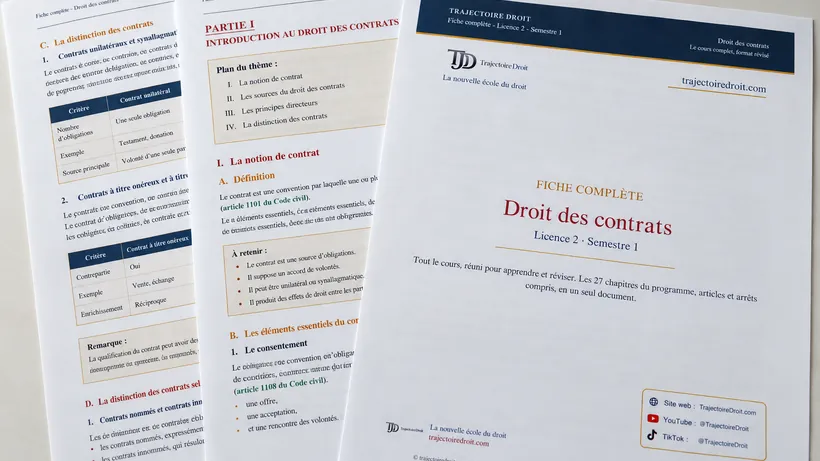
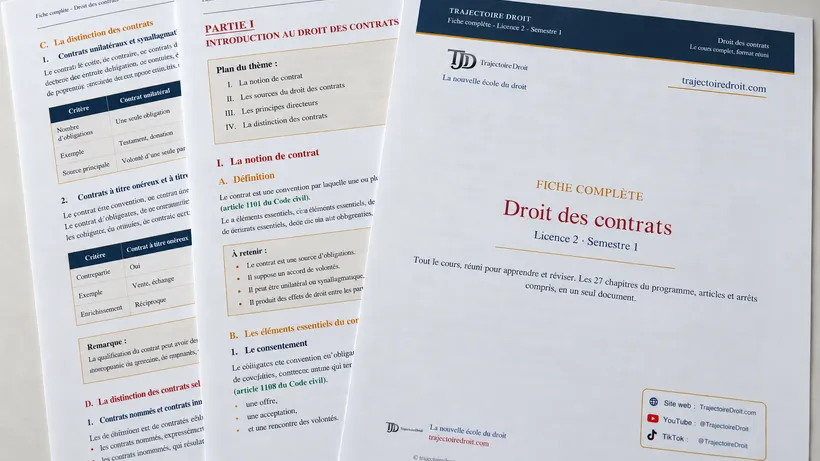
Photos cours complet et fiche complète : bleus ramenés au bleu marine de la charte (#0E2A47), « format réuni » corrigé

diff --git a/formations.html b/formations.html
@@ -39,12 +39,12 @@
   <meta property="og:description" content="Toute la matière de droit en fiches complètes PDF, construites étape par étape avec des couleurs et des schémas. Agréables à lire, faciles à mémoriser.">
   <meta property="og:url" content="https://trajectoiredroit.com/formations.html">
   <meta property="og:locale" content="fr_FR">
-  <meta property="og:image" content="https://trajectoiredroit.com/assets/formats/og-fiche-complete.jpg?v=photo-generee">
+  <meta property="og:image" content="https://trajectoiredroit.com/assets/formats/og-fiche-complete.jpg?v=bleu-charte">
   <meta property="og:image:width" content="1200">
   <meta property="og:image:height" content="630">
   <meta property="og:image:alt" content="Fiche complète de Droit des contrats L2 S1 imprimée et posée sur un bureau, la couverture devant et l'introduction au droit des contrats derrière">
   <meta name="twitter:card" content="summary_large_image">
-  <meta name="twitter:image" content="https://trajectoiredroit.com/assets/formats/og-fiche-complete.jpg?v=photo-generee">
+  <meta name="twitter:image" content="https://trajectoiredroit.com/assets/formats/og-fiche-complete.jpg?v=bleu-charte">
   <meta name="twitter:image:alt" content="Fiche complète de Droit des contrats L2 S1 imprimée et posée sur un bureau, la couverture devant et l'introduction au droit des contrats derrière">
   <link rel="icon" href="assets/favicon.svg" type="image/svg+xml">
   <link rel="preconnect" href="https://fonts.googleapis.com">
@@ -501,7 +501,7 @@
         <span class="eyebrow">Les fiches complètes que ta fac ne t'a pas données.</span>
         <h1 class="h1" style="margin-top:12px">Fiches complètes · Toute ta licence de droit, matière par matière.</h1>
         <p class="lead">Chaque fiche complète réunit toute la matière d'un semestre en un seul PDF, construite étape par étape, avec des couleurs, des schémas et des exemples concrets. Pensée pour être agréable à lire et facile à retenir, elle suit les principes de mémorisation qui font qu'on apprend vite et qu'on oublie moins.</p>
-        <img src="assets/formats/photo-fiche-complete-contrats-l2s1.webp?v=photo-generee" alt="Fiche complète de Droit des contrats L2 S1 imprimée et posée sur un bureau, la couverture devant et l'introduction au droit des contrats derrière" width="1254" height="836" fetchpriority="high" decoding="async" style="display:block; width:100%; max-width:640px; height:auto; margin:24px auto 8px; border-radius:var(--r-xl); box-shadow:var(--sh-3); border:1px solid var(--border)">
+        <img src="assets/formats/photo-fiche-complete-contrats-l2s1.webp?v=bleu-charte" alt="Fiche complète de Droit des contrats L2 S1 imprimée et posée sur un bureau, la couverture devant et l'introduction au droit des contrats derrière" width="1254" height="836" fetchpriority="high" decoding="async" style="display:block; width:100%; max-width:640px; height:auto; margin:24px auto 8px; border-radius:var(--r-xl); box-shadow:var(--sh-3); border:1px solid var(--border)">
         <div class="trust-row">
           <span>Téléchargement immédiat</span>
           <span>Paiement sécurisé · Prix en euros</span>

diff --git a/cours-fiches.html b/cours-fiches.html
@@ -39,12 +39,12 @@
   <meta property="og:description" content="Toutes les fiches détaillées d'une matière réunies fiche par fiche dans un seul document continu.">
   <meta property="og:url" content="https://trajectoiredroit.com/cours-fiches.html">
   <meta property="og:locale" content="fr_FR">
-  <meta property="og:image" content="https://trajectoiredroit.com/assets/formats/og-cours-complet.jpg?v=photo-generee">
+  <meta property="og:image" content="https://trajectoiredroit.com/assets/formats/og-cours-complet.jpg?v=bleu-charte">
   <meta property="og:image:width" content="1200">
   <meta property="og:image:height" content="630">
   <meta property="og:image:alt" content="Pages imprimées du cours complet de Droit des contrats L2 S1, avec la couverture au premier plan et, derrière, la fiche sur les sources des obligations">
   <meta name="twitter:card" content="summary_large_image">
-  <meta name="twitter:image" content="https://trajectoiredroit.com/assets/formats/og-cours-complet.jpg?v=photo-generee">
+  <meta name="twitter:image" content="https://trajectoiredroit.com/assets/formats/og-cours-complet.jpg?v=bleu-charte">
   <meta name="twitter:image:alt" content="Pages imprimées du cours complet de Droit des contrats L2 S1, avec la couverture au premier plan et, derrière, la fiche sur les sources des obligations">
   <link rel="icon" href="assets/favicon.svg" type="image/svg+xml">
   <link rel="preconnect" href="https://fonts.googleapis.com">
@@ -378,7 +378,7 @@
         <span class="eyebrow">Toutes les fiches détaillées d'une matière, réunies dans un seul document.</span>
         <h1 class="h1" style="margin-top:12px">Cours complet · Le format le plus long, matière par matière.</h1>
         <p class="lead">Le cours complet reprend l'intégralité du programme d'une matière, fiche par fiche, sans rien raccourcir. Chaque point est développé jusqu'au bout, avec les articles, la jurisprudence et les exemples. Une seule matière, un seul PDF, du début à la fin du semestre.</p>
-        <img src="assets/formats/photo-cours-complet-contrats-l2s1.webp?v=photo-generee" alt="Pages imprimées du cours complet de Droit des contrats L2 S1, avec la couverture au premier plan et, derrière, la fiche sur les sources des obligations" width="1254" height="836" fetchpriority="high" decoding="async" style="display:block; width:100%; max-width:640px; height:auto; margin:24px auto 8px; border-radius:var(--r-xl); box-shadow:var(--sh-3); border:1px solid var(--border)">
+        <img src="assets/formats/photo-cours-complet-contrats-l2s1.webp?v=bleu-charte" alt="Pages imprimées du cours complet de Droit des contrats L2 S1, avec la couverture au premier plan et, derrière, la fiche sur les sources des obligations" width="1254" height="836" fetchpriority="high" decoding="async" style="display:block; width:100%; max-width:640px; height:auto; margin:24px auto 8px; border-radius:var(--r-xl); box-shadow:var(--sh-3); border:1px solid var(--border)">
         <div class="trust-row">
           <span>Téléchargement immédiat</span>
           <span>Paiement sécurisé · Prix en euros</span>

diff --git a/droit-des-contrats-l2.html b/droit-des-contrats-l2.html
@@ -523,7 +523,7 @@
         </div>
       </div>
       <div class="card">
-        <img src="assets/formats/photo-cours-complet-contrats-l2s1-carte.webp?v=photo-generee" alt="Pages imprimées du cours complet de Droit des contrats L2 S1, avec la couverture au premier plan et, derrière, la fiche sur les sources des obligations" width="820" height="461" loading="lazy" decoding="async" style="display:block; width:100%; height:auto; aspect-ratio:16 / 9; object-fit:cover; border-radius:10px; margin-bottom:14px">
+        <img src="assets/formats/photo-cours-complet-contrats-l2s1-carte.webp?v=bleu-charte" alt="Pages imprimées du cours complet de Droit des contrats L2 S1, avec la couverture au premier plan et, derrière, la fiche sur les sources des obligations" width="820" height="461" loading="lazy" decoding="async" style="display:block; width:100%; height:auto; aspect-ratio:16 / 9; object-fit:cover; border-radius:10px; margin-bottom:14px">
         <h3 style="margin-top:0">Cours complet</h3>
         <p style="color:var(--body); font-size:.9rem; margin-bottom:0">Le format le plus détaillé, jusqu'au moindre développement, pour ne rien laisser au hasard.</p>
         
